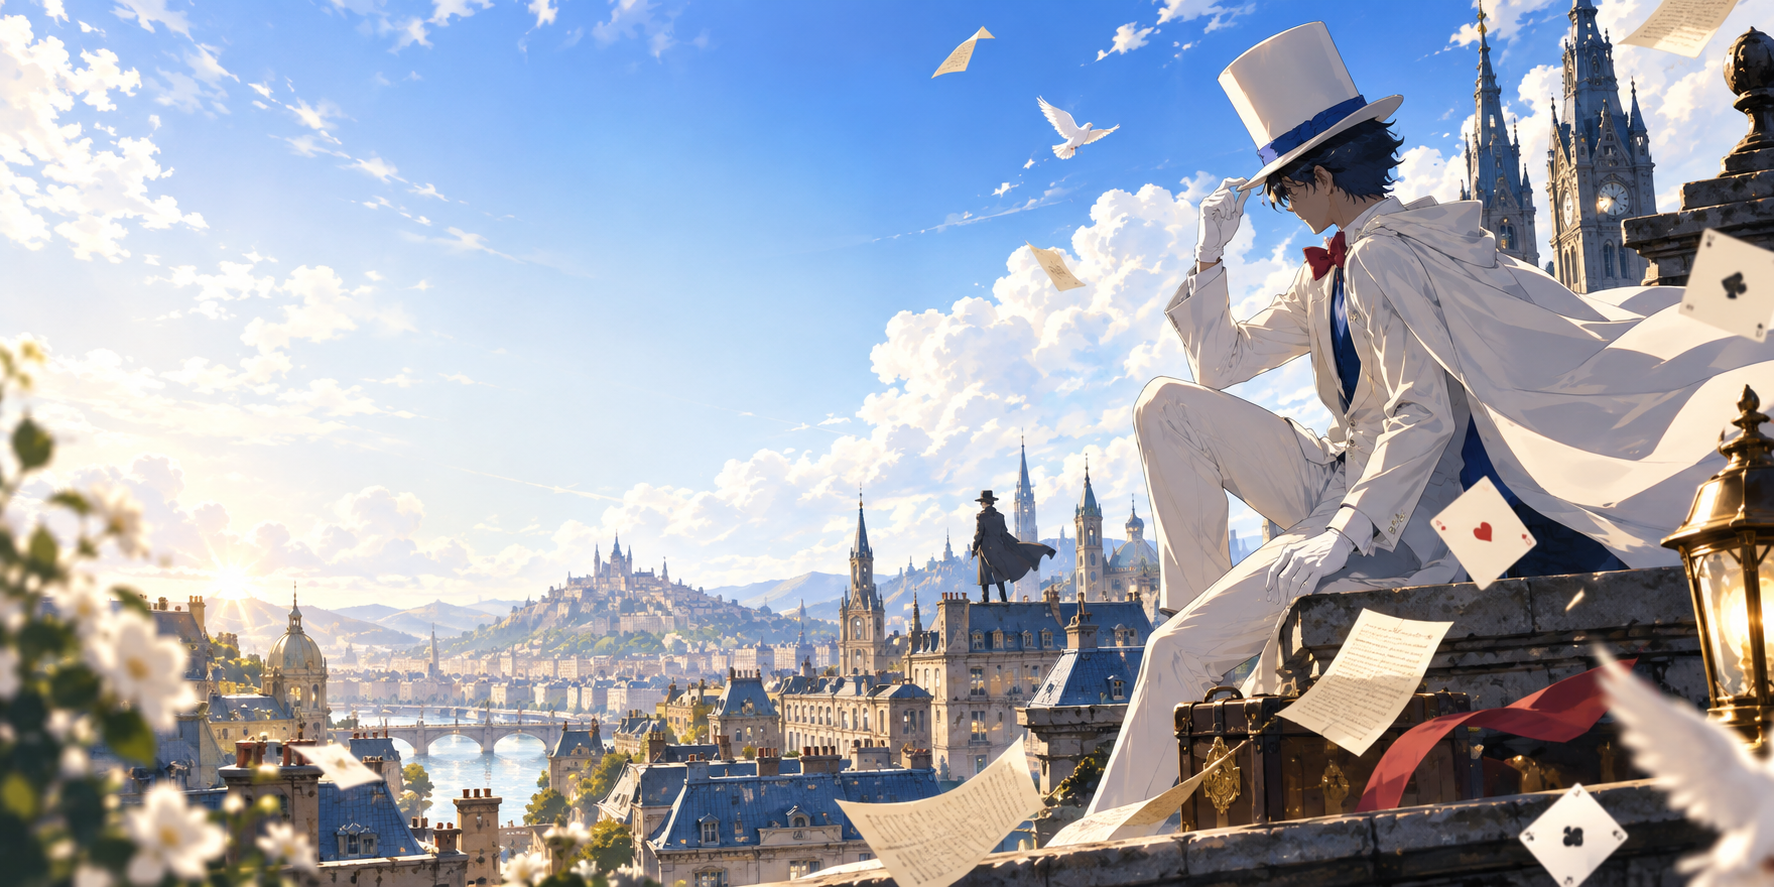
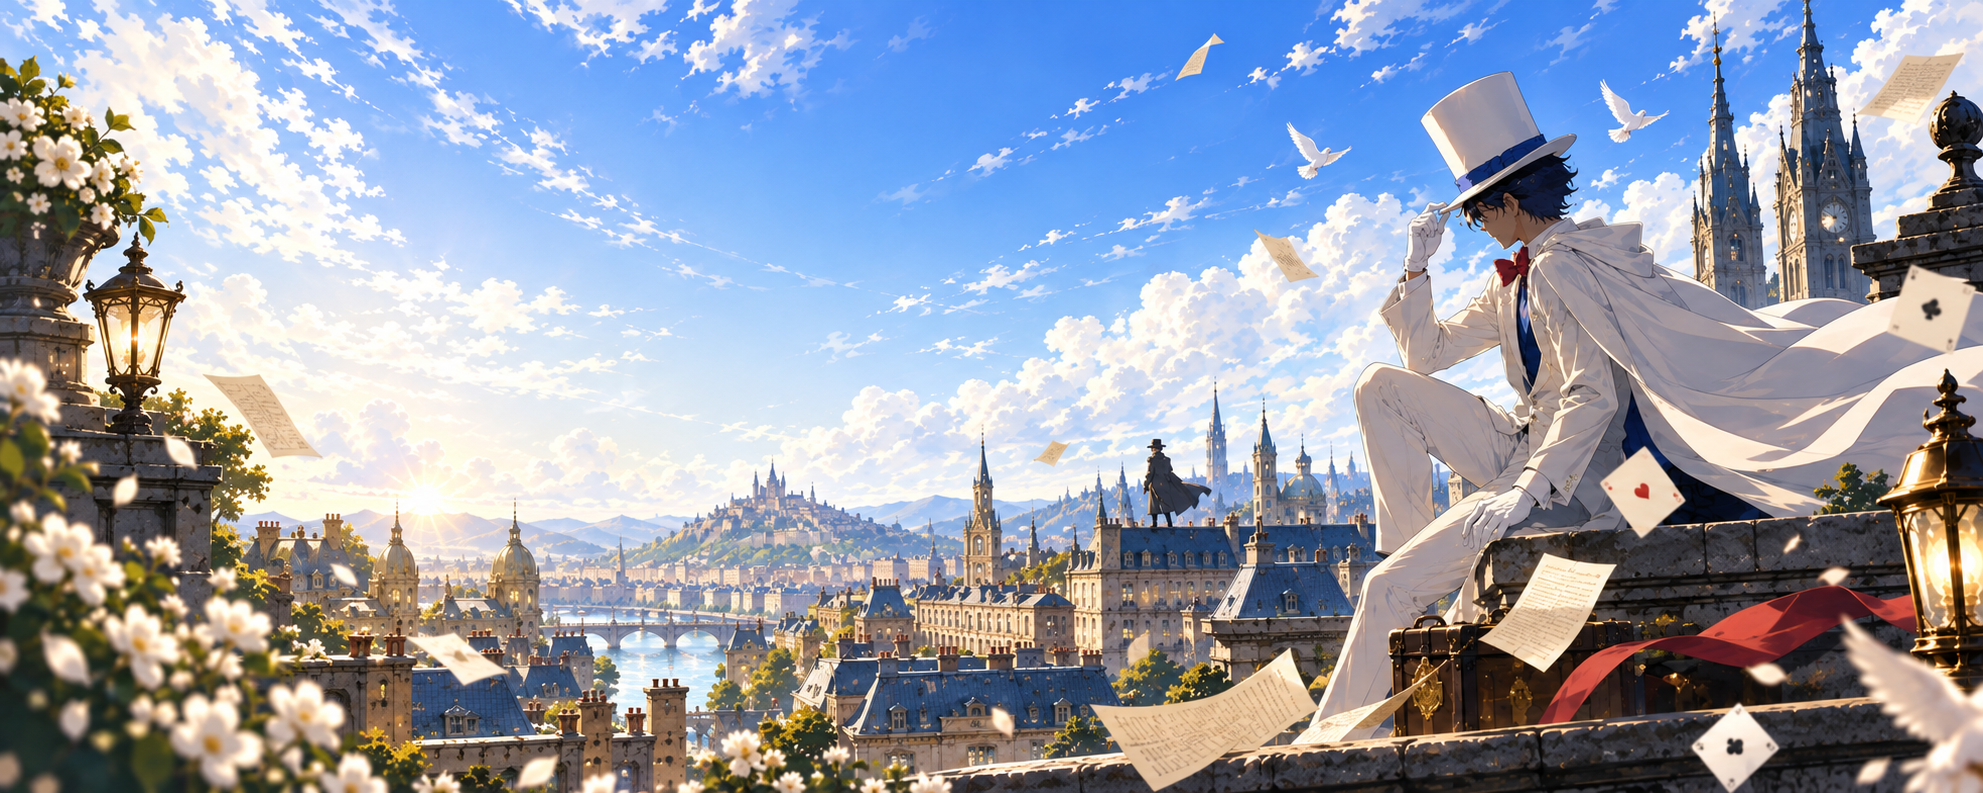
Refresh themed archive background

diff --git a/components/blog-app.tsx b/components/blog-app.tsx
@@ -4,7 +4,7 @@
 import { usePathname } from "next/navigation";
 import { useEffect, useMemo, useRef, useState } from "react";
 import {
-  ArrowLeft, ArrowUpRight, BookOpen, CalendarDays, Check, ChevronLeft,
+  ArrowLeft, ArrowUpRight, CalendarDays, Check, ChevronLeft,
   ChevronRight, CircleUserRound, Clock3, FilePenLine, Layers3,
   Menu, Plus, Search, Sparkles, UploadCloud, X, Zap, Pin, Trash2,
 } from "lucide-react";
@@ -14,9 +14,8 @@ import { renderMarkdown } from "@/lib/markdown";
 type Theme = "detective" | "magician";
 type View = "home" | "blog" | "categories" | "calendar" | "admin";
 
-const navItems: { label: string; href: string; icon: typeof BookOpen }[] = [
+const navItems: { label: string; href: string; icon: typeof Sparkles }[] = [
   { label: "首页", href: "/", icon: Sparkles },
-  { label: "文章", href: "/blog", icon: BookOpen },
   { label: "分类", href: "/categories", icon: Layers3 },
   { label: "时间线", href: "/calendar", icon: CalendarDays },
 ];
@@ -50,9 +49,9 @@ function Sidebar({ posts, onOpen }: { posts: BlogPost[]; onOpen: (post: BlogPost
   return <aside className="right-sidebar"><ProfileCard /><div className="sidebar-panel"><div className="sidebar-title"><strong>热门分类</strong><span>INDEX</span></div><div className="hot-categories">{categoryItems.map((category) => <a key={category.name} href={`/categories#${category.name}`}><span>{category.symbol}</span><strong>{category.name}</strong><small>{category.count}</small></a>)}</div></div><div className="sidebar-panel"><div className="sidebar-title"><strong>最新标签</strong><span>TAG CLOUD</span></div><div className="cloud-tags">{["日常", "技术", "随笔", "架构", "夜晚", "慢生活", "Next.js", "记录"].map((tag) => <span key={tag}>#{tag}</span>)}</div></div><MiniCalendar posts={posts} onOpen={onOpen} /></aside>;
 }
 
-function HomeView({ posts, onOpen, theme }: { posts: BlogPost[]; onOpen: (post: BlogPost) => void; theme: Theme }) {
+function HomeView({ posts, onOpen }: { posts: BlogPost[]; onOpen: (post: BlogPost) => void }) {
   const featured = posts.find((post) => post.pinned) ?? posts[0];
-  return <><section className={`home-hero ${theme === "magician" ? "hero-day-mode" : "hero-night-mode"}`}><img className={`hero-image hero-night ${theme === "detective" ? "is-active" : ""}`} src="/hero-archive.png" alt="月光下的原创侦探与魔术主题城市背景" /><img className={`hero-image hero-day ${theme === "magician" ? "is-active" : ""}`} src="/hero-archive-day.png" alt="阳光下的原创魔术主题城市背景" /><div className="hero-overlay" /><div className="hero-hero-copy"><span className="hero-kicker">TRUTH IS ONLY ONE / PERSONAL BLOG</span><h1>真相只有一个！</h1><p>记录日常，也记录那些尚未结案的想法。</p><span className="hero-signature">— 东海 / EAST SEA</span></div><div className="hero-case-card"><span>ARCHIVE NO. 001</span><strong>生活 · 技术 · 灵感</strong><small>Welcome to my detective diary</small></div></section><div className="home-content-grid"><main className="home-feed"><div className="feed-title"><div><span className="section-kicker">LATEST CASE FILES</span><h2>最新文章</h2></div><a href="/blog" className="text-link">查看全部 <ArrowUpRight size={15} /></a></div>{featured && <PostCard post={featured} featured onOpen={onOpen} />}<div className="feed-label"><span>RECENT NOTES</span><span>{posts.length.toString().padStart(2, "0")} ENTRIES</span></div>{posts.filter((post) => post.id !== featured?.id).map((post) => <PostCard key={post.id} post={post} onOpen={onOpen} />)}</main><Sidebar posts={posts} onOpen={onOpen} /></div></>;
+  return <div className="home-content-grid"><main className="home-feed"><div className="feed-title"><div><span className="section-kicker">LATEST CASE FILES</span><h2>最新文章</h2></div><a href="/blog" className="text-link">查看全部 <ArrowUpRight size={15} /></a></div>{featured && <PostCard post={featured} featured onOpen={onOpen} />}<div className="feed-label"><span>RECENT NOTES</span><span>{posts.length.toString().padStart(2, "0")} ENTRIES</span></div>{posts.filter((post) => post.id !== featured?.id).map((post) => <PostCard key={post.id} post={post} onOpen={onOpen} />)}</main><Sidebar posts={posts} onOpen={onOpen} /></div>;
 }
 
 function BlogView({ posts, onOpen }: { posts: BlogPost[]; onOpen: (post: BlogPost) => void }) {
@@ -133,5 +132,5 @@ export default function BlogApp({ initialView = "home", initialTheme = "magician
   const savePost = async (post: BlogPost) => { const isNew = post.id.startsWith("draft-"); const response = await fetch(isNew ? "/api/posts" : `/api/posts/${post.id}`, { method: isNew ? "POST" : "PATCH", headers: { "content-type": "application/json" }, body: JSON.stringify(post) }); const result = await response.json() as { post?: BlogPost; error?: string }; if (!response.ok || !result.post) throw new Error(result.error || "保存失败，请稍后再试。"); setPosts((current) => isNew ? [result.post!, ...current] : current.map((item) => item.id === result.post!.id ? result.post! : item)); };
   const deletePost = async (post: BlogPost) => { const response = await fetch(`/api/posts/${post.id}`, { method: "DELETE" }); const result = await response.json() as { error?: string }; if (!response.ok) throw new Error(result.error || "删除失败，请稍后再试。"); setPosts((current) => current.filter((item) => item.id !== post.id)); if (selectedPost?.id === post.id) setSelectedPost(null); };
   const togglePinned = async (post: BlogPost) => { const response = await fetch(`/api/posts/${post.id}`, { method: "PATCH", headers: { "content-type": "application/json" }, body: JSON.stringify({ pinned: !post.pinned }) }); const result = await response.json() as { post?: BlogPost; error?: string }; if (!response.ok || !result.post) throw new Error(result.error || "置顶操作失败，请稍后再试。"); setPosts((current) => current.map((item) => item.id === post.id ? result.post! : item)); };
-  return <div className={`site-shell ${isMounted ? "is-mounted" : ""}`}><SiteHeader theme={theme} onToggle={() => setTheme(theme === "detective" ? "magician" : "detective")} menuOpen={menuOpen} onMenu={() => setMenuOpen(!menuOpen)} /><div className="app-body"><main className={`site-main ${view === "home" ? "home-main" : ""}`}>{selectedPost ? <ArticleView post={selectedPost} theme={theme} onBack={() => setSelectedPost(null)} /> : view === "home" ? <HomeView posts={orderedPosts} theme={theme} onOpen={openPost} /> : view === "blog" ? <BlogView posts={orderedPosts} onOpen={openPost} /> : view === "categories" ? <CategoriesView posts={orderedPosts} onOpen={openPost} /> : view === "calendar" ? <CalendarView posts={orderedPosts} onOpen={openPost} /> : <AdminView posts={orderedPosts} onSave={savePost} onDelete={deletePost} onTogglePinned={togglePinned} />}</main></div><footer className="site-footer"><span>© 2026 EAST SEA ARCHIVE</span><span>KEEP THE CLUE / KEEP THE NOTE</span><span className="footer-links"><a href="/admin">PRIVATE CONSOLE</a><span>·</span><span>ORIGINAL FAN-INSPIRED DESIGN</span></span></footer></div>;
+  return <div className={`site-shell ${isMounted ? "is-mounted" : ""}`}><SiteHeader theme={theme} onToggle={() => setTheme(theme === "detective" ? "magician" : "detective")} menuOpen={menuOpen} onMenu={() => setMenuOpen(!menuOpen)} /><div className="app-body"><main className={`site-main ${view === "home" ? "home-main" : ""}`}>{selectedPost ? <ArticleView post={selectedPost} theme={theme} onBack={() => setSelectedPost(null)} /> : view === "home" ? <HomeView posts={orderedPosts} onOpen={openPost} /> : view === "blog" ? <BlogView posts={orderedPosts} onOpen={openPost} /> : view === "categories" ? <CategoriesView posts={orderedPosts} onOpen={openPost} /> : view === "calendar" ? <CalendarView posts={orderedPosts} onOpen={openPost} /> : <AdminView posts={orderedPosts} onSave={savePost} onDelete={deletePost} onTogglePinned={togglePinned} />}</main></div><footer className="site-footer"><span>© 2026 EAST SEA ARCHIVE</span><span>KEEP THE CLUE / KEEP THE NOTE</span><span className="footer-links"><a href="/admin">PRIVATE CONSOLE</a><span>·</span><span>ORIGINAL FAN-INSPIRED DESIGN</span></span></footer></div>;
 }

diff --git a/app/globals.css b/app/globals.css
@@ -190,3 +190,140 @@
 @media (max-width:760px) {
   .main-nav { background:var(--header); border-bottom-color:var(--header-border); }
 }
+
+/* The two former hero banners now become the page-level theme backgrounds. */
+.site-shell {
+  background-repeat:no-repeat;
+  background-position:center top,center top;
+  background-size:100% 760px,100% auto;
+}
+
+:root[data-theme="detective"] .site-shell {
+  background-image:linear-gradient(180deg,rgb(7 26 53 / 4%) 0%,rgb(7 26 53 / 78%) 82%,var(--bg) 100%),url("/hero-archive.png");
+}
+
+:root[data-theme="magician"] .site-shell {
+  background-image:linear-gradient(180deg,rgb(239 244 250 / 0%) 0%,rgb(239 244 250 / 70%) 82%,var(--bg) 100%),url("/hero-archive-day.png");
+}
+
+@media (max-width:760px) {
+  .site-shell { background-size:100% 560px,auto 560px; }
+}
+
+/* Keep the theme artwork fixed to the viewport and let it fill the area behind the page. */
+.site-shell {
+  position:relative;
+  isolation:isolate;
+  background-image:none;
+  background-attachment:initial;
+}
+
+.site-shell::before {
+  position:fixed;
+  z-index:-1;
+  inset:0;
+  content:"";
+  pointer-events:none;
+  background-position:center top;
+  background-repeat:no-repeat;
+  background-size:cover;
+}
+
+:root[data-theme="detective"] .site-shell::before {
+  background-image:linear-gradient(180deg,rgb(7 26 53 / 8%) 0%,rgb(7 26 53 / 42%) 64%,rgb(7 26 53 / 94%) 100%),url("/hero-archive.png");
+}
+
+:root[data-theme="magician"] .site-shell::before {
+  background-image:linear-gradient(180deg,rgb(239 244 250 / 4%) 0%,rgb(239 244 250 / 28%) 64%,rgb(239 244 250 / 94%) 100%),url("/hero-archive-day.png");
+}
+
+/* Clear the earlier scrolling background declarations; the fixed layer above is the only artwork layer. */
+:root[data-theme="detective"] .site-shell,
+:root[data-theme="magician"] .site-shell {
+  background-image:none;
+  background-position:initial;
+  background-size:auto;
+}
+
+/* Preserve the artwork's full aspect ratio instead of cropping it with cover. */
+.site-shell::before {
+  background-color:var(--bg);
+  background-size:100% 100%,100% auto;
+}
+
+/* Theme-aware translucent content surfaces and readable text tokens. */
+:root {
+  --surface:rgb(9 31 59 / 84%);
+  --surface-soft:rgb(23 53 89 / 78%);
+  --text:#edf4ff;
+  --muted:#b8c8df;
+  --line:rgb(151 180 221 / 28%);
+  --line-strong:rgb(151 180 221 / 46%);
+  --paper:rgb(9 31 59 / 90%);
+  --accent-soft:rgb(215 52 72 / 20%);
+  --blue-soft:rgb(72 127 198 / 20%);
+}
+
+:root[data-theme="magician"] {
+  --surface:rgb(255 255 255 / 84%);
+  --surface-soft:rgb(232 238 246 / 78%);
+  --text:#102a4c;
+  --muted:#647792;
+  --line:rgb(72 103 145 / 22%);
+  --line-strong:rgb(72 103 145 / 38%);
+  --paper:rgb(255 255 255 / 88%);
+  --accent-soft:rgb(21 85 159 / 13%);
+  --blue-soft:rgb(31 97 172 / 12%);
+}
+
+:where(.post-card,.profile-card,.sidebar-panel,.mini-calendar,.calendar-card,.calendar-aside,.category-card,.search-bar,.admin-toolbar,.admin-list,.auth-status,.editor-modal) {
+  background:var(--surface);
+}
+
+:where(.hot-categories a,.cloud-tags span) { background:var(--surface-soft); }
+
+/* Pull the first content row closer to the fixed navigation. */
+.site-main.home-main { padding-top:12px; }
+.home-content-grid { margin-top:0; }
+
+/* Fit the complete artwork inside the fixed viewport without stretching or cropping it. */
+.site-shell::before {
+  top:82px;
+  background-position:center top,center center;
+  background-size:100% 100%,auto 100%;
+}
+
+@media (max-width:760px) {
+  .site-shell::before { top:69px; }
+}
+
+/* Let a little more of the fixed artwork show through the content surfaces. */
+:root {
+  --surface:rgb(9 31 59 / 74%);
+  --surface-soft:rgb(23 53 89 / 68%);
+  --paper:rgb(9 31 59 / 80%);
+}
+
+:root[data-theme="magician"] {
+  --surface:rgb(255 255 255 / 74%);
+  --surface-soft:rgb(232 238 246 / 68%);
+  --paper:rgb(255 255 255 / 80%);
+}
+
+/* Fill ultra-wide side gaps with a softened copy while keeping the main artwork uncropped. */
+.site-shell::after {
+  position:fixed;
+  z-index:-2;
+  inset:0;
+  content:"";
+  pointer-events:none;
+  background-position:center;
+  background-repeat:no-repeat;
+  background-size:cover;
+  filter:blur(18px) saturate(.9);
+  opacity:.48;
+  transform:scale(1.06);
+}
+
+:root[data-theme="detective"] .site-shell::after { background-image:url("/hero-archive.png"); }
+:root[data-theme="magician"] .site-shell::after { background-image:url("/hero-archive-day.png"); }
